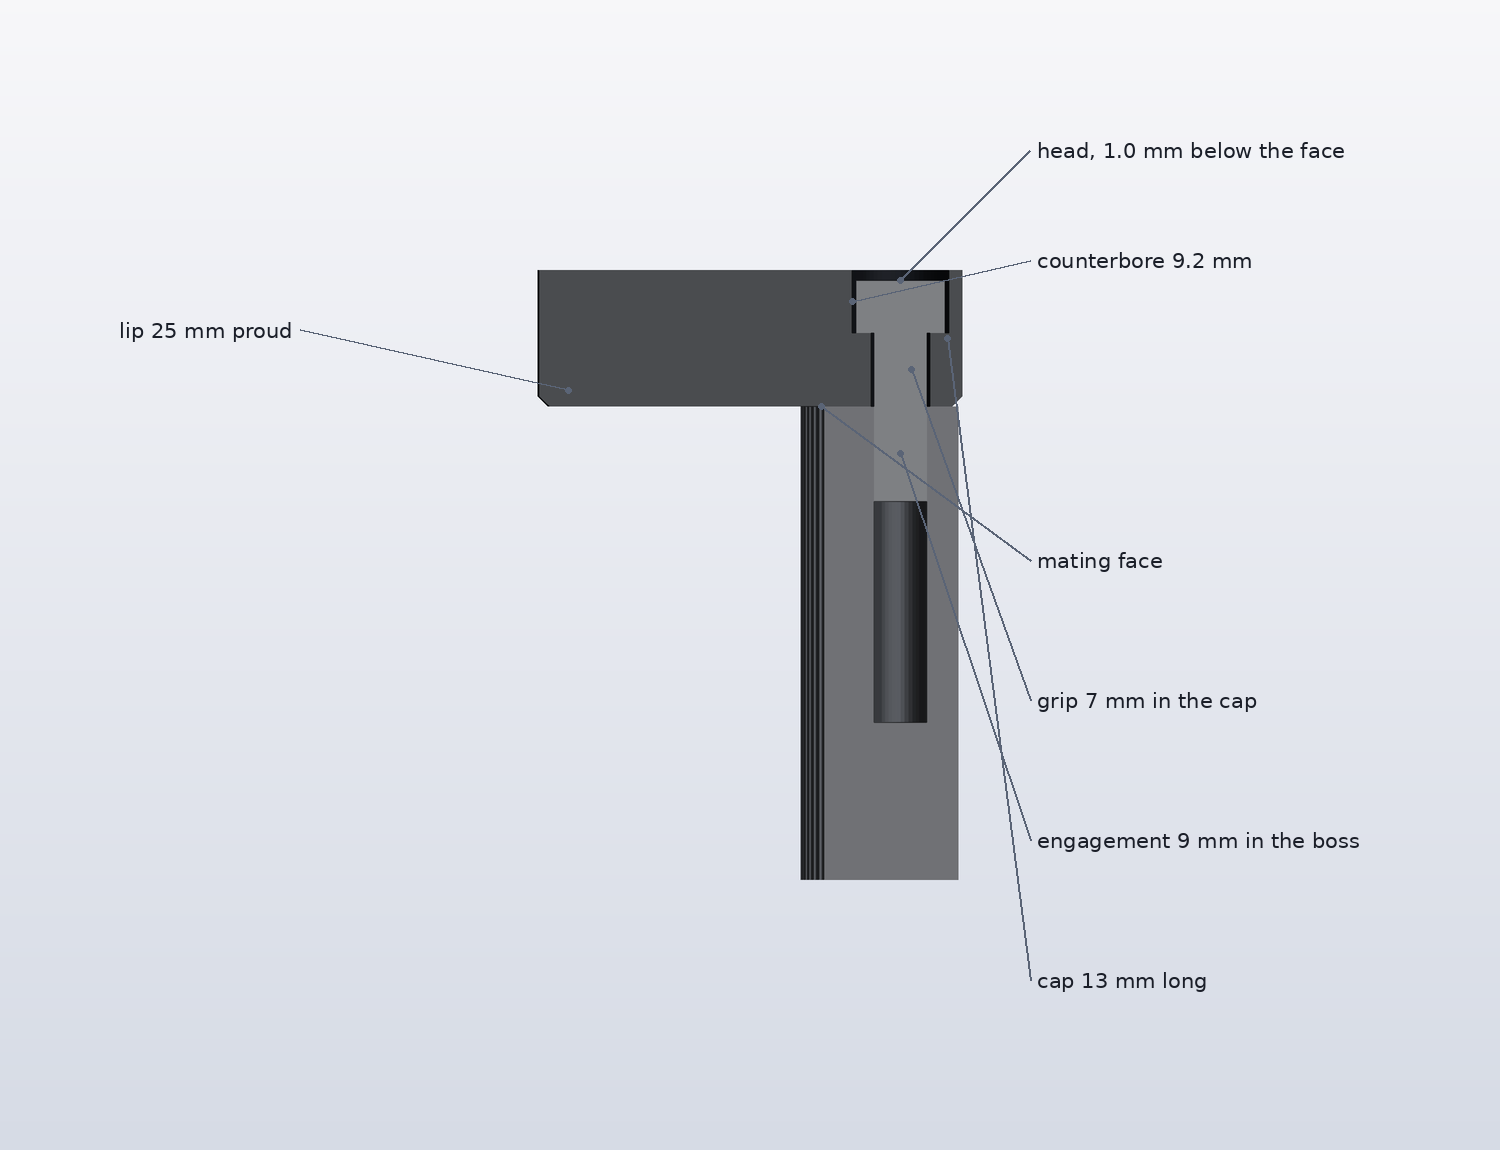
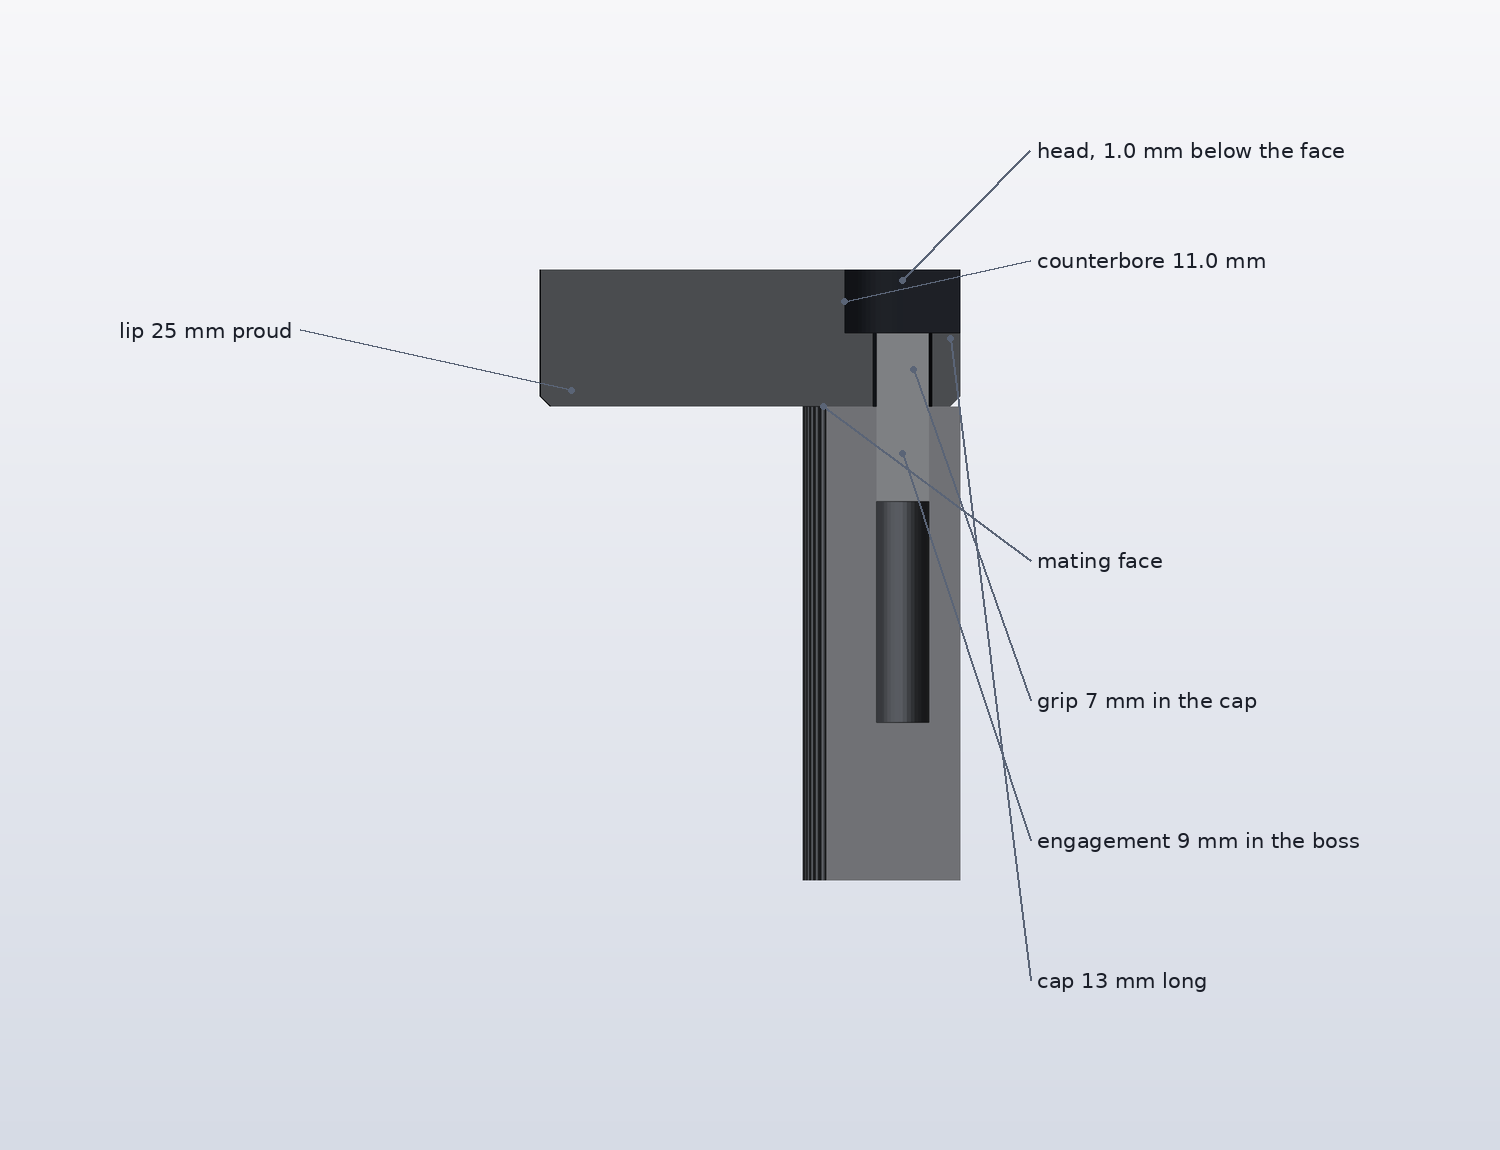
sim-control-prints: fit the pocket to the real bolt head
The head is 10 mm across by caliper and, from the photo against a tape,
domed -- a button or pan head, not the flat-topped socket cap this was
drawn for. The pocket is now 11.0 mm: wider clearance than a cap head
needs, because a dome has to drop in rather than slide down a matching
bore, and FDM prints holes undersize.

Scaling that photo was worth doing carefully. The tape's fine
graduations are sixteenths of an inch, not millimetres -- reading them
as millimetres would have put the scale out by 60%. At 53.25 px per
sixteenth the head measures about 9 mm, against 10 by caliper; the
caliper wins and a clearance pocket is the right place to err large.

A 10 mm head will not bury itself with the bosses 5.5 mm from the back:
a closed bore leaves no material behind it at all. Rather than push the
cap behind the extrusion, where the pedal arm is and nothing has been
measured, or drop the counterbore and let the heads stand proud, the
pocket is now open at the back.

That costs nothing real, and the checks say so rather than the comments.
The head is 5.0 mm in radius and the back face is 5.5 mm from the bolt
axis, so the head itself never reaches it -- only clearance air is let
out. Two new measured checks cover it: the head bears on a complete ring
of material (48/48), and the slot does not break out of the cap's sides
(192/192). OPEN_BACK is derived, so a real BOSS_Y of 6.7 mm or more
closes the bore again with nothing else changing, and BACK_EXT is gone.
[…]

diff --git a/sim-control-prints/build.py b/sim-control-prints/build.py
@@ -58,7 +58,7 @@ def profile(pad=0.0):
     below relies on it.
     """
     w = P.CAP_W + 2 * pad
-    y0 = -P.BACK_EXT - pad
+    y0 = -pad
     y1 = P.EXT_DEPTH + P.LIP_H + pad
     rb, rt = P.R_BACK + pad, P.R_TIP + pad
     discs = [
@@ -107,6 +107,19 @@ def bolt_holes(mesh):
                                        height=cb_h, sections=64)
         cb.apply_translation([x, P.BOSS_Y, P.GRIP + cb_h / 2.0])
         cuts.append(cb)
+
+        if P.OPEN_BACK:
+            # Run the pocket out through the back face instead of leaving a
+            # skin of material no slicer would print. The head is HEAD_D/2
+            # in radius and the back face is BOSS_Y away, so the head itself
+            # stops short of it -- only clearance air is being let out, and
+            # the bearing ring it sits on is untouched.
+            depth = P.BOSS_Y + 5.0
+            slot = trimesh.creation.box(
+                extents=[P.CBORE_D, depth, cb_h])
+            slot.apply_translation(
+                [x, P.BOSS_Y - depth / 2.0, P.GRIP + cb_h / 2.0])
+            cuts.append(slot)
     return trimesh.boolean.difference([mesh] + cuts, engine="manifold")
 
 
@@ -163,10 +176,17 @@ def bolt():
                                           height=P.BOLT_LEN, sections=40)
         shank.apply_translation([x, P.BOSS_Y, P.CAP_L - P.HEAD_SINK - P.HEAD_H
                                  - P.BOLT_LEN / 2.0])
-        head = trimesh.creation.cylinder(radius=P.HEAD_D / 2.0,
-                                         height=P.HEAD_H, sections=40)
-        head.apply_translation([x, P.BOSS_Y, P.CAP_L - P.HEAD_SINK - P.HEAD_H / 2.0])
-        parts += [shank, head]
+        # A domed head, since that is what it is. The spherical cap through
+        # base radius HEAD_D/2 and height HEAD_H has sphere radius
+        # (r^2 + h^2) / 2h, which at 5 and 5 comes out a hemisphere.
+        r, h = P.HEAD_D / 2.0, P.HEAD_H
+        sph_r = (r ** 2 + h ** 2) / (2.0 * h)
+        dome = trimesh.creation.icosphere(subdivisions=3, radius=sph_r)
+        dome.apply_translation([0, 0, h - sph_r])
+        dome = trimesh.intersections.slice_mesh_plane(
+            dome, plane_normal=[0, 0, 1], plane_origin=[0, 0, 0], cap=True)
+        dome.apply_translation([x, P.BOSS_Y, P.CAP_L - P.HEAD_SINK - h])
+        parts += [shank, dome]
     return trimesh.util.concatenate(parts)
 
 
@@ -186,11 +206,9 @@ def run_checks(m):
     proud = (P.CAP_W - P.EXT_WIDTH) / 2.0
     check("cap is not noticeably proud of the extrusion", proud <= 0.5,
           f"{proud:.2f} mm a side")
-    check("depth is BACK_EXT + EXT_DEPTH + LIP_H",
-          abs((hi[1] - lo[1]) - (P.BACK_EXT + P.EXT_DEPTH + P.LIP_H)) < TOL,
+    check("depth is EXT_DEPTH + LIP_H",
+          abs((hi[1] - lo[1]) - (P.EXT_DEPTH + P.LIP_H)) < TOL,
           f"{hi[1] - lo[1]:.2f} mm")
-    check("cap reaches behind the extrusion by no more than 1 mm",
-          P.BACK_EXT <= 1.0, f"{P.BACK_EXT:.2f} mm")
     check("length along the axis is CAP_L", abs((hi[2] - lo[2]) - P.CAP_L) < TOL,
           f"{hi[2] - lo[2]:.2f} mm")
     check("lip stands LIP_H proud of the ribbed face",
@@ -210,10 +228,20 @@ def run_checks(m):
           f"{P.CBORE_D:.1f} > {P.HEAD_D:.1f} mm")
 
     # --- the counterbore has to live inside EXT_DEPTH, which is tight -------
-    wall_back = P.BOSS_Y + P.BACK_EXT - P.CBORE_D / 2.0
     wall_front = P.EXT_DEPTH + P.LIP_H - P.BOSS_Y - P.CBORE_D / 2.0
-    check("wall behind the counterbore, on paper", wall_back >= P.MIN_WALL,
-          f"{wall_back:.2f} >= {P.MIN_WALL:.2f} mm")
+    if P.OPEN_BACK:
+        # The bore is open at the back on purpose. What has to be true is
+        # that the head never reaches the back face -- otherwise it is not a
+        # pocket with a side missing, it is a head hanging out of the part.
+        head_clear = P.BOSS_Y - P.HEAD_D / 2.0
+        check("counterbore is open at the back, deliberately", True,
+              f"{P.CBORE_WALL_BACK:.2f} mm of wall was unprintable")
+        check("the head itself still stops short of the back face",
+              head_clear > 0.0, f"{head_clear:.2f} mm to spare")
+    else:
+        check("wall behind the counterbore, on paper",
+              P.CBORE_WALL_BACK >= P.MIN_WALL,
+              f"{P.CBORE_WALL_BACK:.2f} >= {P.MIN_WALL:.2f} mm")
     check("wall in front of the counterbore, on paper",
           wall_front >= P.MIN_WALL,
           f"{wall_front:.2f} >= {P.MIN_WALL:.2f} mm")
@@ -249,12 +277,45 @@ def run_checks(m):
     # pass. This one asks the mesh: is there MIN_WALL of material all the way
     # round each counterbore, at every height it exists, including the last
     # layer. Measure the part, not the plan.
+    rad = P.CBORE_D / 2 + P.MIN_WALL
     wall_zs = np.linspace(P.GRIP + 0.3, P.CAP_L - 0.05, 12)
-    shell = np.vstack([ring(P.CBORE_D / 2 + P.MIN_WALL, z) for z in wall_zs])
-    inside = m.contains(shell)
+    shell = np.vstack([ring(rad, z) for z in wall_zs])
+
+    # Which samples are allowed to be air. Not "anything behind the back
+    # face" -- that would also forgive the pocket eating sideways into the
+    # cap. Only samples inside the slot that was cut on purpose: behind the
+    # bolt axis, and no further out than the bore is wide.
+    dx = np.abs(np.abs(shell[:, 0]) - P.HOLE_PITCH / 2)
+    dy = shell[:, 1] - P.BOSS_Y
+    opened = (dy < 0) & (dx <= P.CBORE_D / 2 + 1e-6) if P.OPEN_BACK \
+        else np.zeros(len(shell), bool)
+    ok = m.contains(shell) | opened
     check("measured: MIN_WALL of material all round every counterbore",
-          inside.all(),
-          f"{inside.sum()}/{len(inside)} sample points in material")
+          ok.all(),
+          f"{ok.sum()}/{len(ok)} in material, {opened.sum()} in the opening")
+
+    # And the slot stays a slot: material still stands immediately either
+    # side of it, all the way down the open back. Probed just outboard of
+    # the bore rather than out at `rad`, which on the outboard side lands
+    # within a hair of the cap's own edge and tests the sample point rather
+    # than the part.
+    flanks = np.array([[sx * P.HOLE_PITCH / 2 + ox * (P.CBORE_D / 2 + 0.3), y, z]
+                       for sx in (-1, 1) for ox in (-1, 1)
+                       for y in (1.5, 2.5, 3.5, 4.5)
+                       for z in wall_zs])
+    flank_ok = m.contains(flanks)
+    check("measured: the slot does not break out of the cap's sides",
+          flank_ok.all(), f"{flank_ok.sum()}/{len(flank_ok)} beside the slots")
+    edge = P.CAP_W / 2 - P.HOLE_PITCH / 2 - P.CBORE_D / 2
+    check("material outboard of each bore, to the cap's edge",
+          edge >= P.MIN_WALL, f"{edge:.2f} >= {P.MIN_WALL:.2f} mm")
+
+    # The whole case for opening the back is that the head still has a
+    # complete ring to bear on. Check it rather than assert it.
+    bearing = ring(P.HEAD_D / 2 - 0.2, P.GRIP - 0.3)
+    seated = m.contains(bearing)
+    check("measured: the head bears on a complete ring of material",
+          seated.all(), f"{seated.sum()}/{len(seated)} of the bearing ring")
 
     # --- the mating face is flat where it meets aluminium -------------------
     xs = np.linspace(-P.EXT_WIDTH / 2 + 3, P.EXT_WIDTH / 2 - 3, 9)

diff --git a/sim-control-prints/params.py b/sim-control-prints/params.py
@@ -52,8 +52,16 @@ BOSS_Y     = EDGE_DEPTH / 2.0
 
 BOLT_D     = 5.0         # M5
 BOLT_LEN   = 16.0        # what Rob has on the shelf
-HEAD_D     = 8.5         # ISO 4762 socket cap head, M5
-HEAD_H     = 5.0
+HEAD_D     = 10.0        # measured with calipers. The head is DOMED -- a
+                         # button or pan head, not the flat-topped socket cap
+                         # this was first drawn for. Measured off a photo
+                         # against a tape it reads nearer 9 mm, but a caliper
+                         # beats a blurred photograph and a clearance pocket
+                         # is the right place to err large.
+HEAD_H     = 5.0         # PROVISIONAL. The photo puts the dome at about
+                         # 4.7 mm. Overstating it is safe: the counterbore
+                         # floor is fixed at GRIP, so a shorter head simply
+                         # sits deeper and the bolt still gets its 7 and 9.
 ENGAGE_MIN = 1.5 * BOLT_D    # 7.5 mm, the usual minimum into aluminium
 
 GRIP       = 7.0         # bolt length spent inside the cap; the rest threads
@@ -61,9 +69,14 @@ GRIP       = 7.0         # bolt length spent inside the cap; the rest threads
 HEAD_SINK  = 1.0         # how far below the outer face the head finishes
 
 CLEAR_D    = BOLT_D + 0.6    # 5.6, a free-fit hole for an M5 shank
-CBORE_D    = HEAD_D + 0.7    # 9.2. Deliberately tight: every extra tenth here
-                             # comes straight off the wall beside the head,
-                             # which EXT_DEPTH has very little of to spare.
+CBORE_D    = HEAD_D + 1.0    # 11.0. Wider clearance than a cap head would
+                             # get, for two reasons: a domed head has to drop
+                             # in freely rather than slide down a matching
+                             # bore, and FDM prints holes undersize. The back
+                             # of the bore is open anyway (see OPEN_BACK), so
+                             # the tenths no longer come off a wall that
+                             # cannot afford them -- only off CAP_W, which
+                             # has room.
 
 # --- the cap ----------------------------------------------------------------
 
@@ -85,15 +98,28 @@ CAP_W      = max(EXT_WIDTH,
                          # it means this re-solves itself when EXT_WIDTH is
                          # finally measured.
 
-BACK_EXT   = max(0.0, MIN_WALL + WALL_SLACK + CBORE_D / 2.0 - BOSS_Y)
-                         # how far the cap reaches behind the extrusion's
-                         # back face. Normally zero. The crown pulls the
-                         # bosses closer to the back -- BOSS_Y is 5.5 rather
-                         # than 7.5 -- which leaves a 9.2 mm counterbore only
-                         # 0.9 mm of wall behind it. Reaching back by the
-                         # shortfall fixes that and nothing else; it is
-                         # derived, so it returns to zero the moment a real
-                         # BOSS_Y says it can.
+CBORE_WALL_BACK = BOSS_Y - CBORE_D / 2.0
+OPEN_BACK  = CBORE_WALL_BACK < MIN_WALL
+                         # Whether the counterbore is left open at the back.
+                         #
+                         # With BOSS_Y at 5.5 and a 10 mm head, a closed bore
+                         # leaves 0.15 mm of material behind it -- a third of
+                         # an extrusion width, which no slicer will produce.
+                         # The alternatives were to push the cap 1.15 mm
+                         # behind the extrusion, where the pedal arm is and
+                         # nothing has been measured, or to drop the
+                         # counterbore and let the heads stand proud.
+                         #
+                         # Opening the pocket costs nothing real. The head is
+                         # 5.0 mm in radius and the back face is BOSS_Y away,
+                         # so the head itself never reaches it: the only
+                         # thing removed is clearance air and that 0.15 mm
+                         # skin. The head's full bearing ring on the
+                         # counterbore floor survives, and build.py checks
+                         # that rather than assuming it.
+                         #
+                         # Derived, so a real BOSS_Y of 6.65 or more closes
+                         # the bore again with no other change.
 
 R_BACK     = 2.0         # Corner radius at the back edge of the XY profile.
                          # The aluminium's own lobes are rounder than this --

diff --git a/sim-control-prints/direction.md b/sim-control-prints/direction.md
@@ -55,7 +55,7 @@ bolts to, so they are recorded here rather than buried in code.
 | Foot face | **crowned across the width**, not flat |
 | Crown height | **≈4 mm** (PROVISIONAL) |
 | Boss centre, from the back | **≈5.5 mm** (PROVISIONAL, derived from the crown) |
-| Bolts on hand | **M5 × 16 mm**, socket cap head |
+| Bolts on hand | **M5 × 16 mm**, **domed** head, 10 mm across (measured) |
 
 The crown is the thing the photograph hides. The foot face rises on a gentle
 arc from the side edges to the middle, so "15 mm deep" is the depth at the
@@ -84,9 +84,9 @@ M5 × 16 bolt wants 9 mm of thread in the aluminium, leaving 7 mm of grip,
 and a socket cap head is 5 mm tall and sits 1 mm below the surface. 7 + 5 + 1
 is the whole of it.
 
-    mount    2 x M5 at 39 mm, counterbored 9.2 mm
-    bolt     16 mm = 7 grip + 9 engagement
-    cap      52.0 x 40.4 x 13.0 mm, 25.7 cm3, print 4x
+    mount    2 x M5 at 39 mm, 11.0 mm pocket, open at the back
+    bolt     16 mm = 7 grip + 9 engagement, 10 mm domed head
+    cap      52.6 x 40.0 x 13.0 mm, 25.3 cm3, print 4x
     lip      25 mm proud of the crown
 
 **The crown turns out to change almost nothing.** The lip is a full-width
@@ -97,17 +97,27 @@ does change is where the bosses sit: it pulls them to about 5.5 mm from the
 back rather than the 7.5 mm a flat 15 mm bar would give, and that is the one
 number the part cannot be wrong about.
 
-**The outer face is deliberately not chamfered**, and the cap reaches 0.4 mm
-behind the extrusion. Both are the counterbore's doing. With the boss 5.5 mm
-from the back, a 9.2 mm bore leaves 0.9 mm of wall behind a bolt head; a 1 mm
-chamfer on the outer face would have taken it to nothing. Three separate
-arithmetic checks called the original version fine, because arithmetic does
-not know about chamfers. Replacing them with one that samples the mesh all
-round each counterbore caught it, and immediately caught a second thin wall
-nobody had thought to look for — the bores sit 5.5 mm from the side edges and
-had 0.9 mm of material outboard. `CAP_W` and `BACK_EXT` are both derived from
-that clearance now, which is why they came back to 52.0 mm and 0.4 mm on
-their own when the real width arrived.
+**The bolt pocket is open at the back, on purpose.** The head is domed and
+10 mm across, which an 11 mm pocket swallows — but the bosses are only 5.5 mm
+from the flat back, so a closed bore would have left 0 mm of material behind
+it. The alternatives were to push the whole cap behind the extrusion, into
+the pedal arm, where nothing has been measured, or to drop the counterbore
+and let the heads stand proud.
+
+Opening it costs nothing real, and that is checkable rather than asserted.
+The head is 5.0 mm in radius and the back face is 5.5 mm from the bolt axis,
+so **the head itself never reaches the back** — only clearance air is being
+let out. The ring it bears on at the bottom of the pocket is complete, and
+`build.py` samples it to prove so. `OPEN_BACK` is derived, so a real `BOSS_Y`
+of 6.7 mm or more closes the bore again with nothing else changing.
+
+**The outer face is deliberately not chamfered**, which is the same
+constraint seen earlier. Three arithmetic checks once called a version fine
+that had 0.4 mm of wall beside a head, because arithmetic does not know about
+chamfers. Replacing them with checks that sample the mesh caught it, and then
+caught a second thin wall nobody had thought to look for — the bores sit near
+the side edges too. `CAP_W` is derived from that clearance, which is why it
+sits at 52.6 mm rather than the extrusion's 52.
 
 The outer body is built as the convex hull of four stacked outlines rather
 than by chamfering with booleans. The outline is convex, so the hull *is* the
@@ -129,7 +139,7 @@ reaches for a graph. `requirements.txt` says so and says why.
 ```bash
 cd sim-control-prints
 python3 -m pip install -r requirements.txt
-python3 build.py          # 28 checks, then the STL and six renders
+python3 build.py          # 30 checks, then the STL and six renders
 ```
 
 It will not write files if a check fails, and the exit code is non-zero.
@@ -142,6 +152,10 @@ It will not write files if a check fails, and the exit code is non-zero.
   lobe the cap does not bolt on at all.
 - **`CROWN` is still a guess**, 4.0 mm. It only reaches the part through
   `BOSS_Y`, `EDGE_DEPTH` and the render stub.
+- **`HEAD_H` is assumed at 5.0 mm.** The photo puts the dome nearer 4.7.
+  Overstating it only sinks the head deeper, so it is not worth chasing.
+- **The open back is untested in the hand.** It should be invisible once
+  bolted, since the extrusion is behind it, but nobody has seen one yet.
 - **Does the bottom cap clear the base plate?** A 25 mm lip at the lower end
   swings through an arc as the pedal moves. Unknown until one is held
   against the hardware.

diff --git a/sim-control-prints/print-guide.md b/sim-control-prints/print-guide.md
@@ -9,8 +9,8 @@ commit to the set.
 | | |
 | --- | --- |
 | File | `stl/footrest-end-cap.stl` |
-| Size | 52.0 × 40.4 × 13.0 mm |
-| Volume | 25.7 cm³ solid; expect 17–20 g each at the settings below |
+| Size | 52.6 × 40.0 × 13.0 mm |
+| Volume | 25.3 cm³ solid; expect 17–20 g each at the settings below |
 | Quantity | **4** — two ends, two pedals. One STL does all four. |
 
 The same part serves the top and the bottom of a foot rest, and the left and
@@ -36,16 +36,19 @@ up and the counterbores open at the top.
 
 That orientation is chosen, not incidental:
 
-- A 52 × 40.4 mm first layer, so nothing needs a brim.
+- A 52.6 × 40 mm first layer, so nothing needs a brim.
 - **No supports anywhere.** The only overhang is the 1 mm chamfer round the
   mating face, which is 45°. The counterbore is a hole that gets *wider* as
   it rises, so its step is an upward-facing ledge, not a ceiling.
 - The mating face comes off the smooth bed flat, which is what it has to be.
+- The two bolt pockets are **open at the back edge** of the cap. That is
+  deliberate, not a modelling slip — see `direction.md`. They print as open
+  slots and need nothing special.
 
 | | |
 | --- | --- |
 | Nozzle / layer | 0.4 mm / 0.2 mm |
-| Walls | **4** — the wall beside each counterbore is only 1.4 mm, so it wants to be solid perimeter rather than infill |
+| Walls | **4** — the material beside each bolt pocket is only 1.3 mm, so it wants to be solid perimeter rather than infill |
 | Infill | 25 %, gyroid |
 | Supports | none |
 | Brim | none |
@@ -62,7 +65,8 @@ chamfer in the slicer.
    boss is tapped shallower than 9 mm the bolt will jam before it clamps —
    tell me and I will raise `GRIP` to suit.
 2. Offer the cap up with the lip pointing **away from the extrusion**, on the
-   ribbed side.
+   ribbed side. The open side of the bolt pockets faces the back, where the
+   extrusion closes them off.
 3. Nip both bolts up finger-tight, check the cap is square to the face, then
    tighten gently. This is plastic: snug, not torqued.
 
